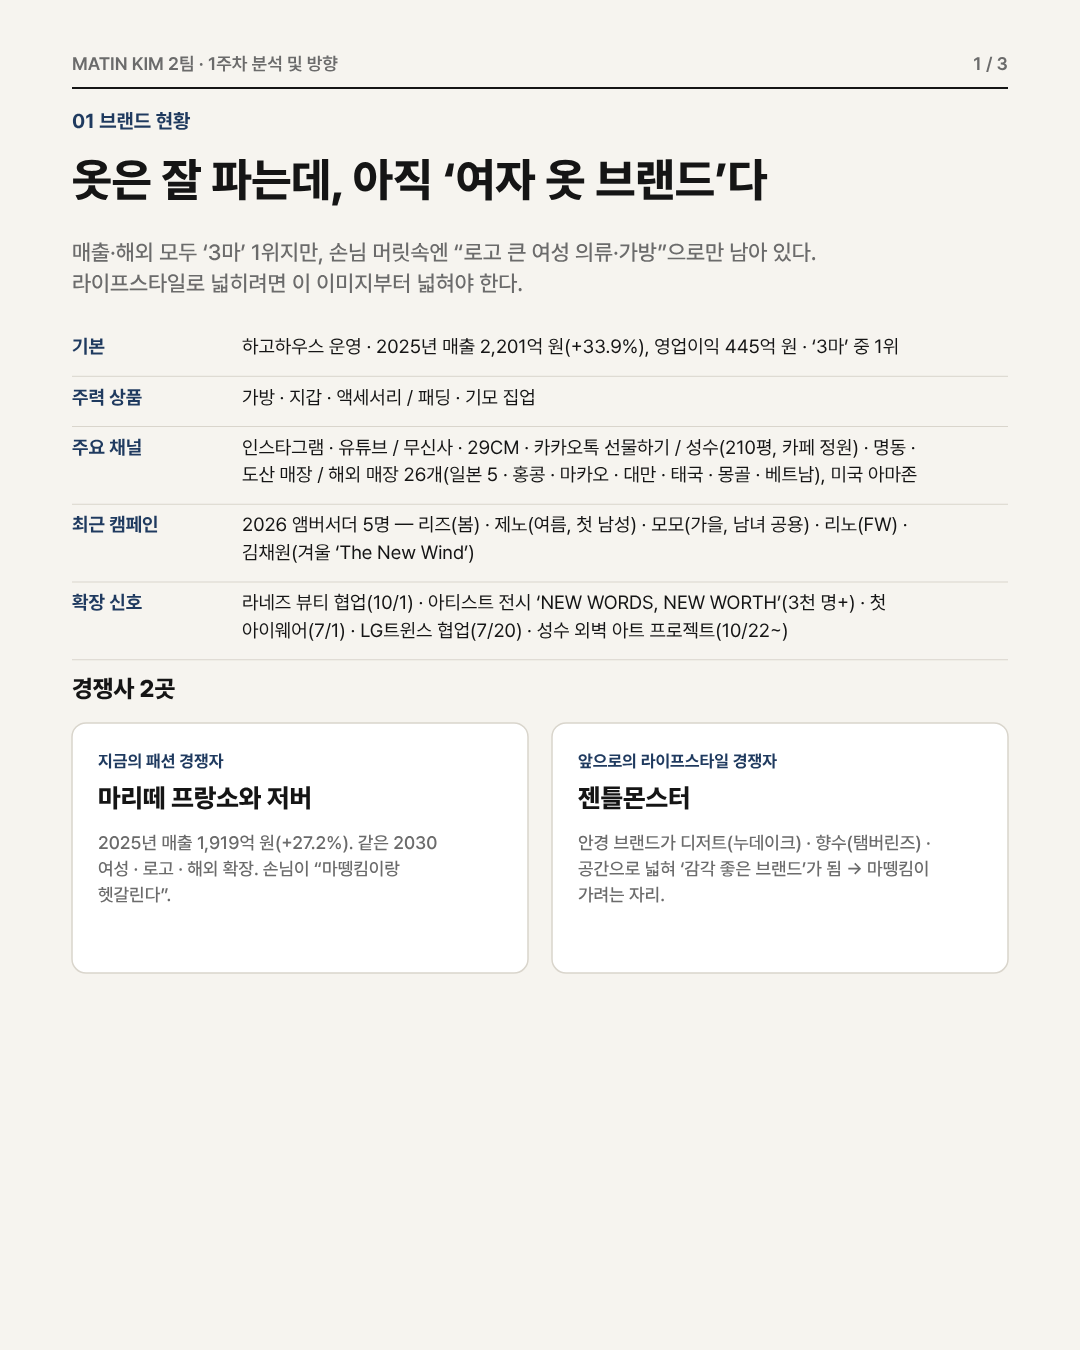
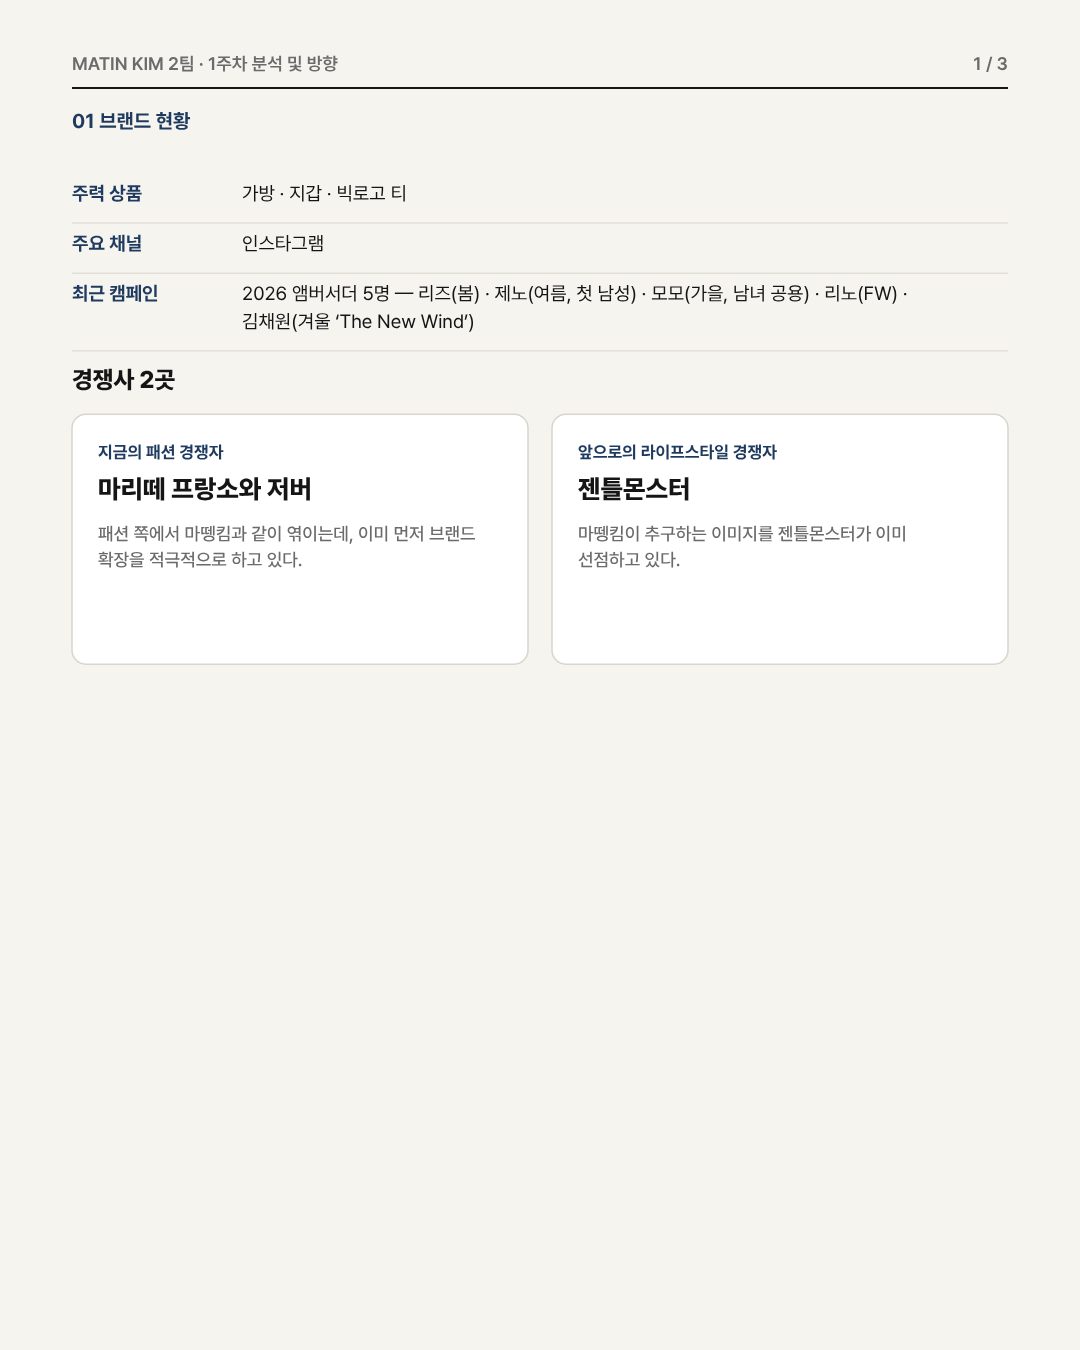
마뗑킴 1주차 제출용 3장 최종 수정 (강정준비준 피드백 반영)
* 마뗑킴 1주차 3장에서 크리링이 지은 큰 제목·부제 문장을 모두 뺌

Claude-Session: https://claude.ai/code/session_01VwLjVAGVevWminy8McjiU3

* 마뗑킴 1주차 1장 주력 상품을 가방·지갑·빅로고 티로 바꿈

Claude-Session: https://claude.ai/code/session_01VwLjVAGVevWminy8McjiU3

* 마뗑킴 1주차 1장 주요 채널을 인스타그램으로 바꿈

Claude-Session: https://claude.ai/code/session_01VwLjVAGVevWminy8McjiU3

* 마뗑킴 1주차 1장에서 확장 신호 줄을 뺌

Claude-Session: https://claude.ai/code/session_01VwLjVAGVevWminy8McjiU3

* 마뗑킴 1주차: 경쟁사 설명·SWOT 강점/약점을 강정준비준 의견대로 고침

Claude-Session: https://claude.ai/code/session_01VwLjVAGVevWminy8McjiU3

* 마뗑킴 1주차 SWOT: 약점에 '브랜드 확장이 느린 편', 위협에 '3마로 엮이는 것' 의견 넣음

Claude-Session: https://claude.ai/code/session_01VwLjVAGVevWminy8McjiU3

* 마뗑킴 1주차 SWOT 약점 문구를 '라이프스타일 확장에 있어 후발주자임'으로 바꿈

Claude-Session: https://claude.ai/code/session_01VwLjVAGVevWminy8McjiU3

* 마뗑킴 1주차 SWOT: 안/밖 기준에 맞게 중화권 진출은 강점으로, 국내 인기·외국인 매출은 약점으로 옮김

Claude-Session: https://claude.ai/code/session_01VwLjVAGVevWminy8McjiU3

* 마뗑킴 1주차 2장: 강점 칸 글이 넘쳐서 SWOT 칸 높이를 늘림

Claude-Session: https://claude.ai/code/session_01VwLjVAGVevWminy8McjiU3

* 마뗑킴 1주차 3장 WHEN을 '겨울 여행'으로 채움

Claude-Session: https://claude.ai/code/session_01VwLjVAGVevWminy8McjiU3

* 마뗑킴 1주차 3장을 새 피그마 내용(WHAT·WHEN·HOW·컨셉·가제)으로 다시 작성

Claude-Session: https://claude.ai/code/session_01VwLjVAGVevWminy8McjiU3

* 마뗑킴 1주차: 페르소나를 28세 여성으로, 위협을 '3마로 로고가 비슷함'으로 바꾸고 브랜드 현황 '기본' 줄을 뺌

Claude-Session: https://claude.ai/code/session_01VwLjVAGVevWminy8McjiU3

* 마뗑킴 1주차 3장 캠페인 컨셉을 '마뗑킴의 의인화'로 바꿈
[…]

diff --git a/개인공부/마케팅교육/마뗑킴_1주차_제출.md b/개인공부/마케팅교육/마뗑킴_1주차_제출.md
@@ -1,28 +1,24 @@
 # 마뗑킴 2팀 · 1주차 분석 및 방향 정리 (제출용 3장)
 
 > 2026-11-07 · 피그마 "마케팅" 파일 메모 + `마뗑킴_1주차_자료.md` + `마뗑킴_뉴스_2024-2026.md`로 정리
-> 피그마에 비어 있던 칸(WHEN · 컨셉 한 줄 · 가제)은 비워 둠 → 강정준비준·팀이 직접 채우기
+> 피그마 내용(2026-11-07 다시 읽음) + 대화로 고친 내용으로 다시 작성. 크리링이 빈칸을 채우지 않음
 
 ---
 
-## 1장. 브랜드 현황 — "옷은 잘 파는데, 아직 '여자 옷 브랜드'다"
-
-**결론 한 줄:** 마뗑킴은 매출·해외 모두 '3마' 1위지만, 손님 머릿속에는 "로고 큰 여성 의류·가방"으로만 남아 있다. 라이프스타일로 넓히려면 이 이미지를 먼저 넓혀야 한다.
+## 1장. 브랜드 현황
 
 | 항목 | 내용 |
 |---|---|
-| 기본 | 하고하우스 운영 · 2025년 매출 2,201억(+33.9%), 영업이익 445억 · '3마' 중 1위 |
-| 주력 상품 | 가방 · 지갑 · 액세서리 / 패딩 · 기모 집업 |
-| 주요 채널 | 인스타그램 · 유튜브 / 무신사 · 29CM · 카카오톡 선물하기 / 성수(210평, 카페 정원) · 명동 · 도산 매장 / 해외 매장 26개(일본 5 · 홍콩 · 마카오 · 대만 · 태국 · 몽골 · 베트남), 미국 아마존 |
+| 주력 상품 | 가방 · 지갑 · 빅로고 티 |
+| 주요 채널 | 인스타그램 |
 | 최근 캠페인 (2026) | 앰버서더 5명: 리즈(봄) · 제노(여름, 첫 남성) · 모모(가을, 남녀 공용) · 리노(FW) · 김채원(겨울 'The New Wind') |
-| 라이프스타일 신호 | 라네즈 뷰티 협업(10/1) · 아티스트 전시 'NEW WORDS, NEW WORTH'(3천 명+) · 첫 아이웨어(7/1) · LG트윈스 협업(7/20) · 성수 외벽 아트 프로젝트(10/22~) |
 
 **경쟁사 2곳**
 
 | 구분 | 브랜드 | 왜 경쟁사인가 |
 |---|---|---|
-| 지금의 패션 경쟁자 | 마리떼 프랑소와 저버 | 2025년 매출 1,919억(+27.2%). 같은 2030 여성 · 로고 · 해외 확장. 손님이 "마뗑킴이랑 헷갈린다" |
-| 앞으로의 라이프스타일 경쟁자 | 젠틀몬스터(누데이크 · 탬버린즈) | 안경 브랜드가 디저트 · 향수 · 공간으로 넓혀 "감각 좋은 브랜드"가 됨 → 마뗑킴이 가려는 자리 |
+| 지금의 패션 경쟁자 | 마리떼 프랑소와 저버 | 패션 쪽에서 마뗑킴과 같이 엮이는데, 이미 먼저 브랜드 확장을 적극적으로 하고 있다. |
+| 앞으로의 라이프스타일 경쟁자 | 젠틀몬스터(누데이크 · 탬버린즈) | 마뗑킴이 추구하는 이미지를 젠틀몬스터가 이미 선점하고 있다. |
 
 ---
 
@@ -30,19 +26,15 @@
 
 | 강점 S | 약점 W |
 |---|---|
-| · 매출이 계속 오름(하락 없이 상승 중) <br>· 20대에게 좋은 브랜드 이미지, 여성 팬덤이 아주 큼 <br>· 마케팅을 잘함 — 모델 선택이 좋음(김채원), 남성복도 시작 <br>· 착한 액세서리 가격 <br>· 온라인 팬덤 → 오프라인으로 넓힌 뒤에도 인기 유지 <br>· 해외에서도 성공(해외 매장 26개) <br>· 올해 협업 · 예술 · 문화 공간으로 영역을 넓히는 중 | · 브랜드 역사가 짧음 <br>· 여성적인 이미지가 강함(실제 손님도 대부분 여성) <br>· 빅로고가 너무 많이 쓰여 "질린다"는 반응(특히 옷) <br>· 창업자(김다인) 대표가 2023년에 나감 → 브랜드 얼굴이 없어짐 |
+| · 매출이 계속 오름(하락 없이 상승 중) <br>· 20대에게 좋은 브랜드 이미지, 여성 팬덤이 아주 큼 <br>· 마케팅을 잘함 — 모델 선택이 좋음(김채원), 남성복도 시작 <br>· 주력 상품의 가격이 비싸지 않다 <br>· 대표는 이미 나갔지만, 대표의 이미지와 성공 신화 덕분에 브랜드 이미지가 좋다 <br>· 온라인 팬덤 → 오프라인으로 넓힌 뒤에도 인기 유지 <br>· 해외에서도 성공(해외 매장 26개) <br>· 올해 협업 · 예술 · 문화 공간으로 영역을 넓히는 중 <br>· 중화권 진출 준비(중국 1호점 계획) | · 브랜드 역사가 짧음 <br>· 여성적인 이미지가 강함(실제 손님도 대부분 여성) <br>· 브랜드 이미지(빅로고)가 조금 물린다 <br>· 라이프스타일 확장에 있어 후발주자임 <br>· 창업자(김다인) 대표가 2023년에 나감 → 브랜드 얼굴이 없어짐 <br>· 국내 인기가 식는 중 — 길에서 점점 안 보임 <br>· 오프라인 매장 매출은 내국인보다 외국인이 많음 |
 | **기회 O** | **위협 T** |
-| · 한국 이미지가 좋아져 외국인 관광객이 계속 늘어남 <br>· 환율이 떨어지고 있어 관광객이 쇼핑하기 좋음 <br>· 중화권 진출 준비(중국 1호점 계획) <br>· 요즘 소비는 가격 · 기능보다 '브랜드 이미지'로 산다 | · 국내 인기가 식는 중 — 길에서 점점 안 보임 <br>· 오프라인 매장 매출은 내국인보다 외국인이 많음 <br>· '3마'끼리 경쟁이 치열 · 서로 헷갈림 <br>· 패션 브랜드들이 모두 '탈패션'(카페 · 뷰티)으로 가는 중 |
+| · 한국 이미지가 좋아져 외국인 관광객이 계속 늘어남 <br>· 요즘 소비는 가격 · 기능보다 '브랜드 이미지'로 산다 | · '3마'로 로고가 비슷함 <br>· 패션 브랜드들이 모두 '탈패션'(카페 · 뷰티)으로 가는 중 |
 
 **→ 그래서:** 강점(팬덤 · 마케팅 · 관광객)으로 약점(여성 이미지 · 로고 피로)을 덮는다. 옷이 아닌 **가벼운 물건부터** 브랜드를 넓힌다.
 
-**페르소나 1명 (추천: 남성 30세)**
+**페르소나 1명**
 
-> **강정준, 30세 남성, 직장인.** 옷에 관심이 많고 여러 브랜드를 경험해 보는 걸 좋아한다. 마뗑킴을 알지만, 로고에서 느껴지는 여성스러움 때문에 아직 한 번도 못 사 봤다. 남의 눈치를 보는 편이다. '3마'가 뭐가 다른지 잘 모른다.
-> 여자친구(32세 직장인)가 마뗑킴 손님이고, 남자친구 옷차림을 챙겨 주는 편이다.
-
-- 왜 이 사람인가: WHY(여성 → 남성 · 중성 이미지)에 딱 맞는 사람. 여자친구라는 '이미 있는 팬'을 통해 다가갈 수 있다.
-- 다른 후보(여성 32세 김여자 — 무난한 남자친구 옷을 챙기는 사람)는 이 페르소나의 **구매를 도와주는 사람**으로 넣는다.
+> **강정준, 28세 여성, 직장 2년 차.** 옷에 관심이 많다. SNS 활동을 자주 하고, 본인의 것을 보여 주는 걸 좋아한다.
 
 ---
 
@@ -50,29 +42,23 @@
 
 | 질문 | 한 줄 답 |
 |---|---|
-| **What** (무엇을) | 옷 브랜드 마뗑킴을 '여행 문구'로 라이프스타일까지 넓힌다. |
-| **Why** (왜) | 여성 이미지를 남성 · 중성으로 넓히고, 옷 말고도 브랜드의 여러 면을 보여 주기 위해. |
-| **When** (언제) | (비어 있음) |
-| **How** (어떻게) | 문구 브랜드와 협업한 '트래블 노트 + 펜' — 마뗑킴 펜으로 여행 노트를 쓰는 캠페인. |
-| **If** (그러면) | "감성 좋은 여성 옷 브랜드" → "마뗑킴 자체가 센스 좋은 브랜드"로 생각이 바뀐다. |
+| **What** (무엇을) | 여행을 하며 마뗑킴 펜으로 트래블 노트를 작성한다. |
+| **Why** (왜) | 브랜드 이미지를 여성 중심에서 벗어나게 하고, 브랜드의 여러 면을 보여 주기 위해. |
+| **When** (언제) | 휴가·연휴 시즌 (겨울 여행) |
+| **How** (어떻게) | 펜 회사·노트 회사와 협업(미도리, 몰스킨, 홍디안 등) + 계절별 앰버서더와 함께 영상 광고 <br>· 건강한 여행: 러닝도 하고(본사 옷) 산책을 즐기면서 트래블 노트 작성 <br>· 오락성 여행: 시내에서 재미있게 놀고 사진을 찍으면서 트래블 노트 작성. 사진도 붙이면서. |
+| **If** (그러면) | "감성·감각 좋은 여성 의류 브랜드" → "마뗑킴 자체가 센스 좋은 브랜드"로 인식이 바뀐다. |
 
-**바뀌었으면 하는 생각 (비유):** 지금 마뗑킴은 "트렌디한 옷과 액세서리를 잘 쓰는 사람"이다. 이번 캠페인으로 "옷 잘 입는 사람 집에 놀러 갔더니 인테리어도, 쓰는 물건도 다 감각 있는 사람"이 되게 한다.
+**캠페인 컨셉:** 지금까지는 '옷 입은' 마뗑킴, 이제는 '쓰기도' 한다
 
-**캠페인 컨셉 한 줄:** (비어 있음)
-
-**가제:** (비어 있음)
+**가제:** 마뗑킴, 쓰다 (MATIN KIM WRITES) — 크리링 제안
 
 ---
 
 ## 2주차 대면 미팅 때 정할 것
-- 페르소나: 남성 30세로 가도 되는지
-- 협업할 문구 브랜드 후보 (한국 브랜드 / 해외 브랜드)
-- WHEN · 컨셉 한 줄 · 가제
 
 ## 확인 필요
 - "중화권 1,615억 규모 매출계약 체결" — 피그마 메모의 기사 제목. 기사 링크를 아직 못 찾음 → 출처 확인 후 SWOT 기회에 숫자로 넣기
 - 중국 1호점(베이징 · 상하이) 실제 개점 여부 — 확인 기사 없음
-- 마뗑킴 공식 유튜브 채널 운영 여부
 
 ## 출처
 - 머니투데이, 실적 경쟁 뜨거운 '3마' (2026-06-03): https://www.mt.co.kr/living/2026/06/03/2026060114504953179
